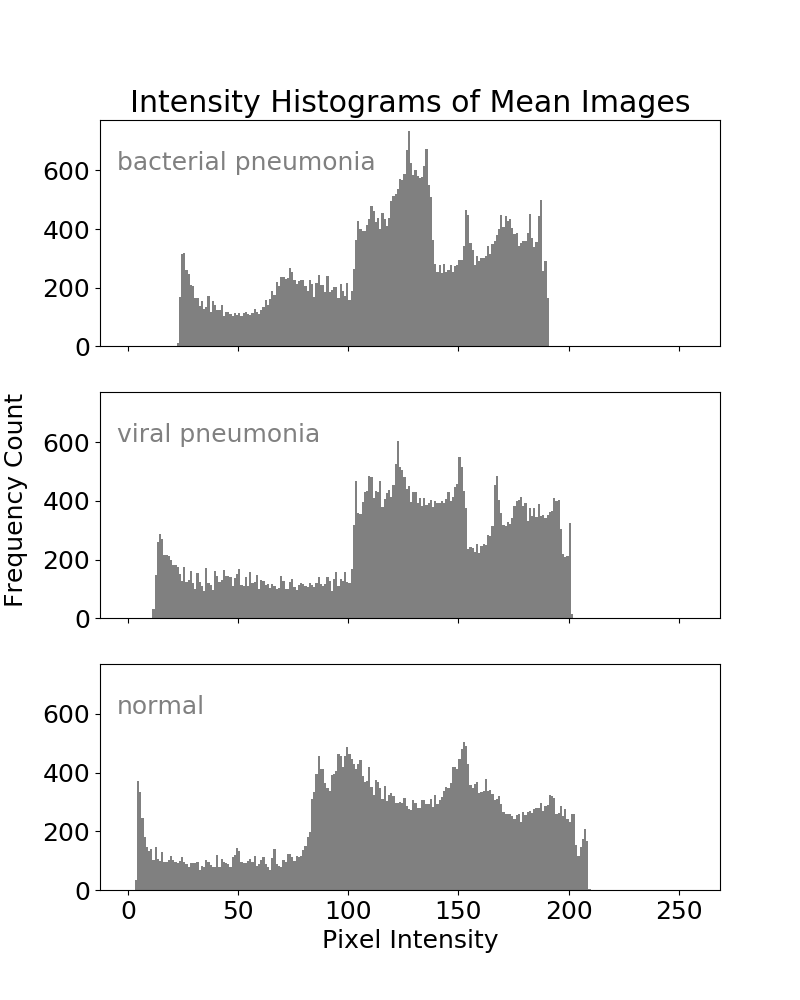
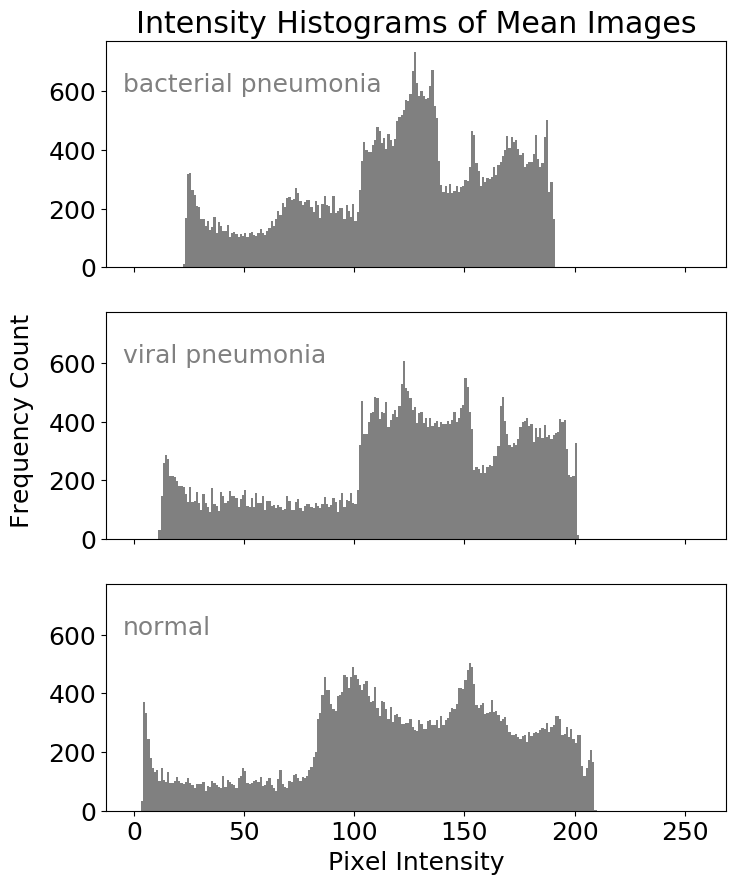
updated eda script to resize intensity histogram image file

diff --git a/code/eda.py b/code/eda.py
@@ -259,7 +259,8 @@ fig.text(x=0.02,
          va='center',
          rotation='vertical')
 
-# save the figure as an image file
-fig.savefig(FIGURE_OUTPUT_PATH + 'mean_images_intensity_histograms.png')
+# save the figure as a png file
+fig.savefig(FIGURE_OUTPUT_PATH + 'mean_images_intensity_histograms.png',
+            bbox_inches='tight')
 
 print('done')
